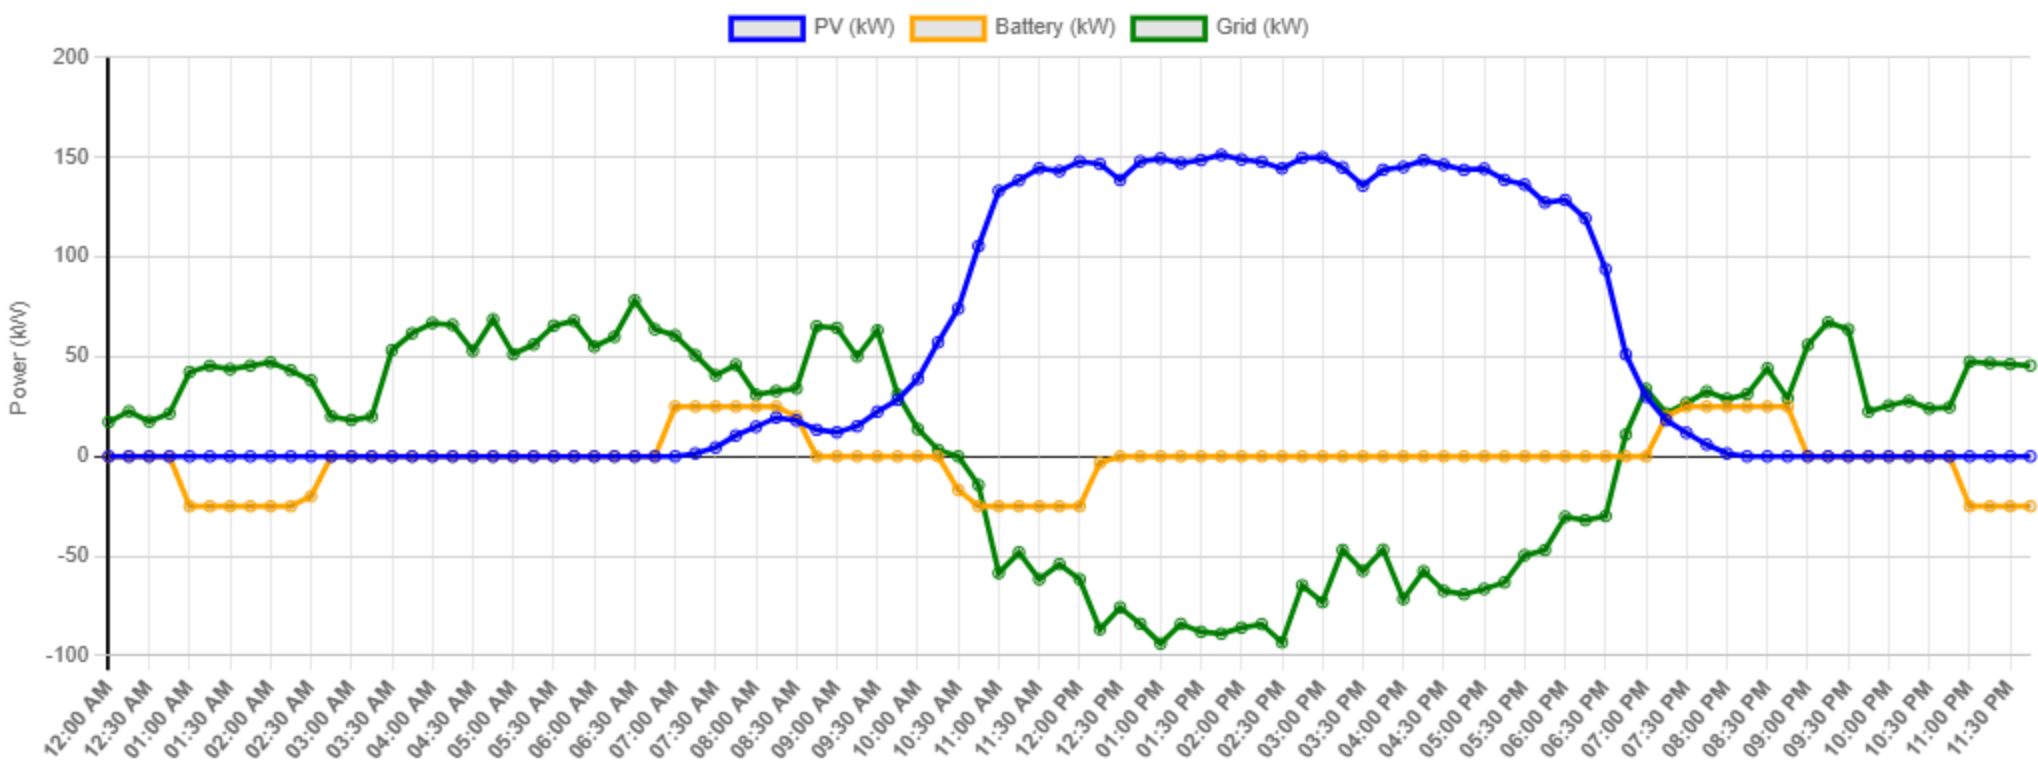
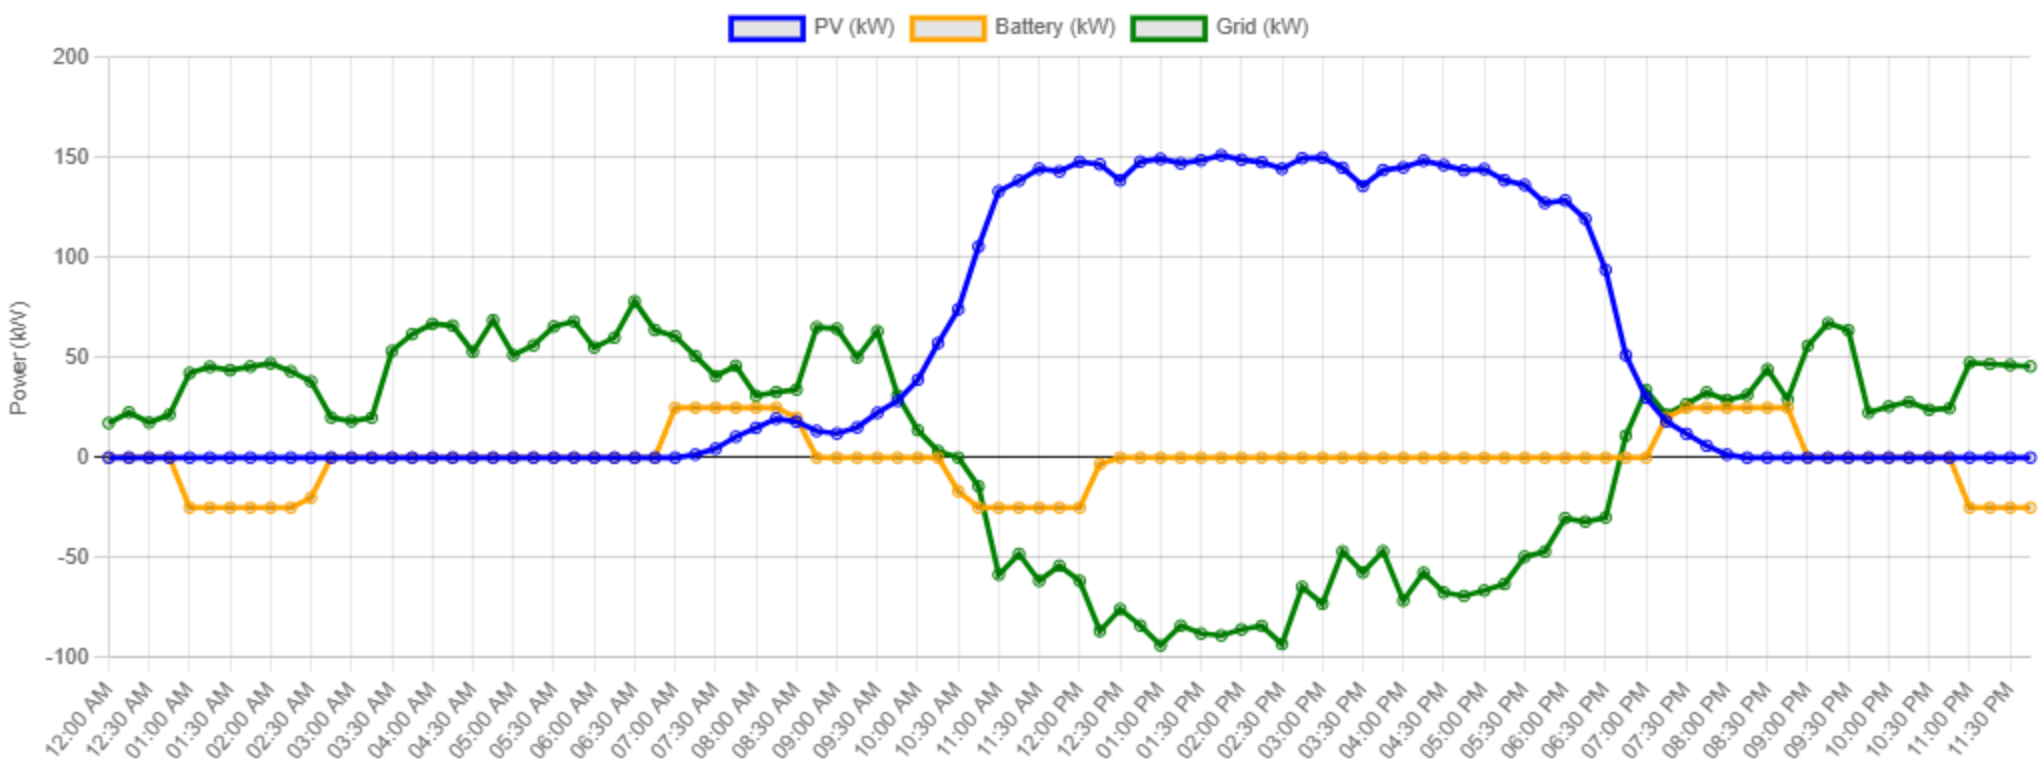
Energy live chart - finally y axis is not bold, need to look at a x grid option

diff --git a/resources/views/plants/partials/plant-chart.blade.php b/resources/views/plants/partials/plant-chart.blade.php
@@ -230,9 +230,7 @@
                             display: true,
                             text: 'Power (kW)'
                         },
-                        ticks: {
-                            font: { weight: 'normal' }
-                        },
+
                         grid: {
                             lineWidth: 1,
                             color: context => context.tick && context.tick.value === 0 ? '#000' : '#ccc'
@@ -241,12 +239,8 @@
                     x: {
 
                         ticks: {
-                            font: { weight: 'bold' }
+                            font: { weight: 'normal' }
                         },
-                        grid: {
-                            lineWidth: context => context.tick && context.tick.value === 0 ? 2 : 0.5,
-                            color: context => context.tick && context.tick.value === 0 ? '#000' : '#ccc'
-                        }
                     }
                 }
             }
